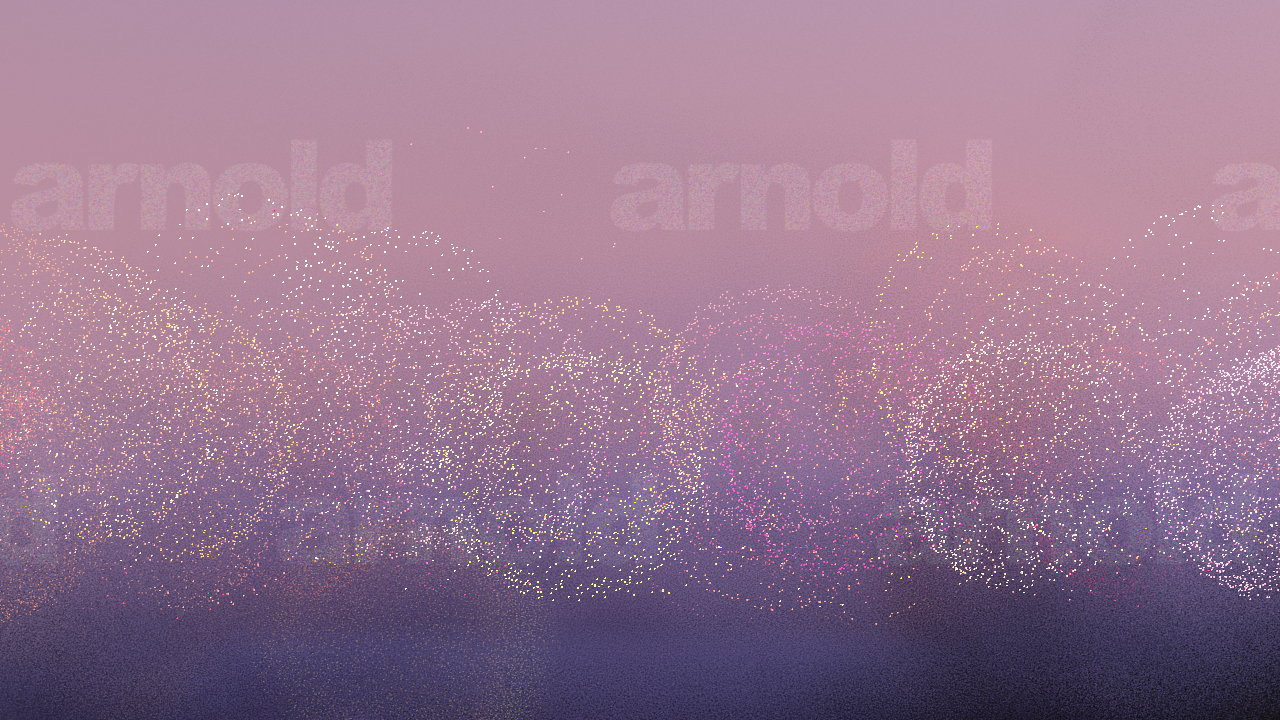
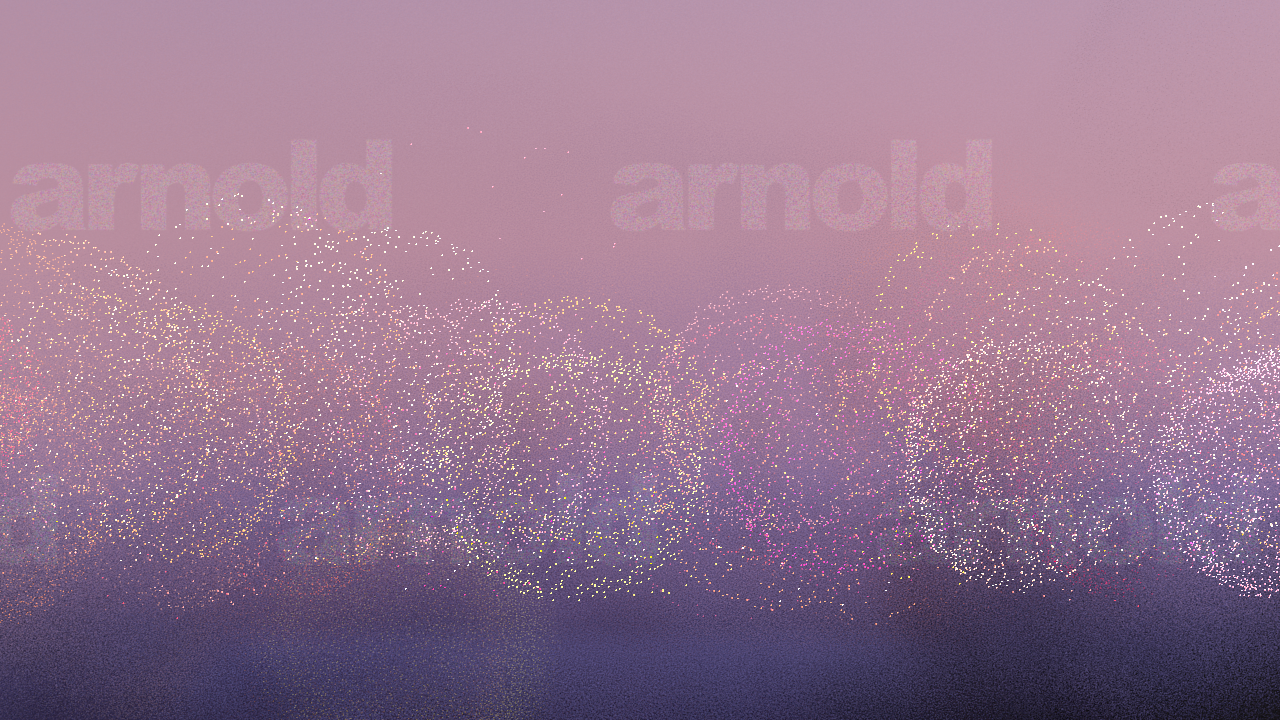
fstop matches for thinlens/lentil unit renders

diff --git a/polynomial-optics/src/unit_render_arnold.py b/polynomial-optics/src/unit_render_arnold.py
@@ -1,7 +1,3 @@
-#TODO: make fstop match more or less
-#TODO: add denoise step for chart image
-#TODO: add oiio png conversion
-
 import os
 import sys
 import json
@@ -53,9 +49,11 @@ def unit_render_lens(lensdict, mode, lentil):
         
         sensor_width = 36.0
         fov = 2.0 * math.atan(sensor_width / (2.0 * lensdict["focallength"]))
+        aperture_radius = (lensdict["focallength"] / (2.0 * lensdict["max_fstop"])) / 10.0
         
         if node_thinlens is not None and AiNodeIs(node_thinlens, 'persp_camera') == True:
             AiNodeSetFlt(node_thinlens, 'fov', math.degrees(fov))
+            AiNodeSetFlt(node_thinlens, 'aperture_size', aperture_radius)
 
             
     
@@ -99,6 +97,7 @@ def collect_all_prod_ready_lenses(lens_json):
                 focallength_dict["lens_name"] = lens_name
                 focallength_dict["outfile"] = outfile
                 focallength_dict["focallength"] = focallength
+                focallength_dict["max_fstop"] = lens_database[lensid]["fstop"][str(focallength)]
 
                 lens_name_for_enum_find = "{company}__{name}__{year}__{focallength}mm".format(
                     company = lens_database[lensid]["company"].lower(),
